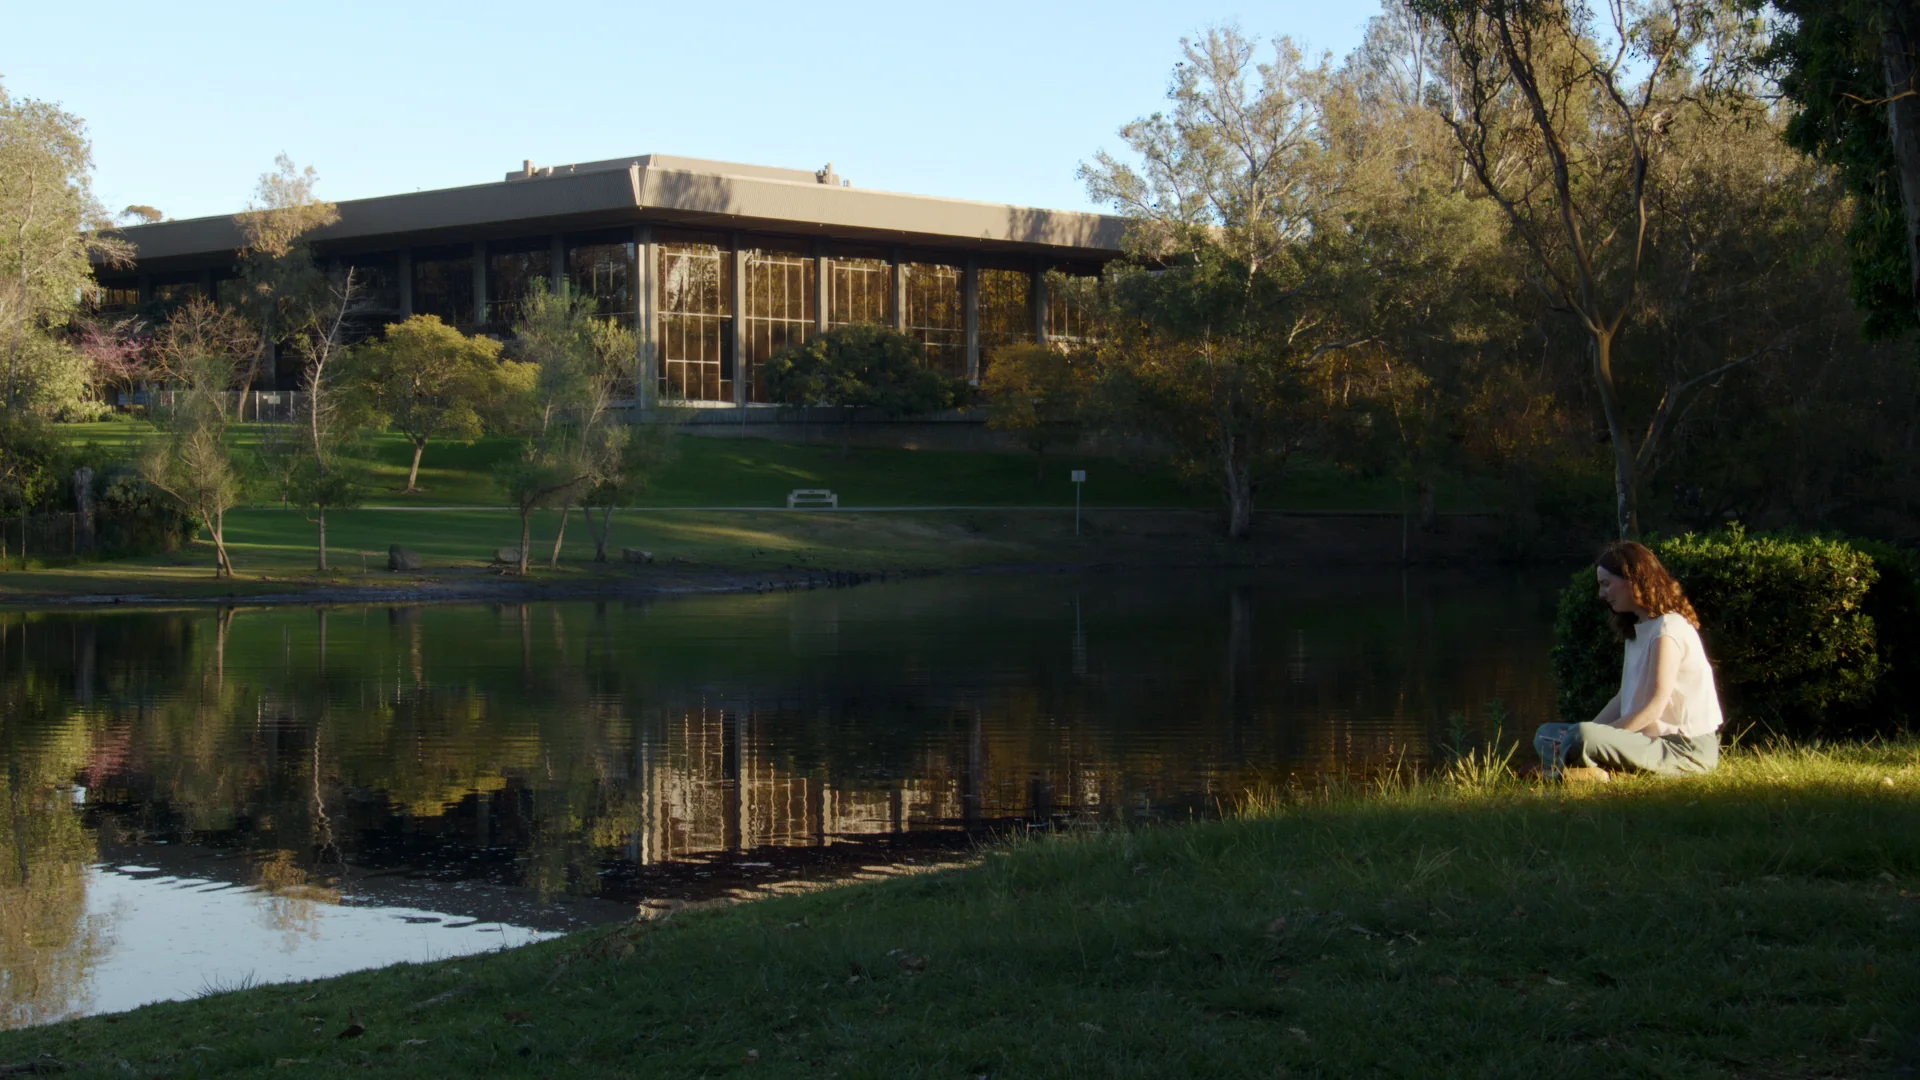
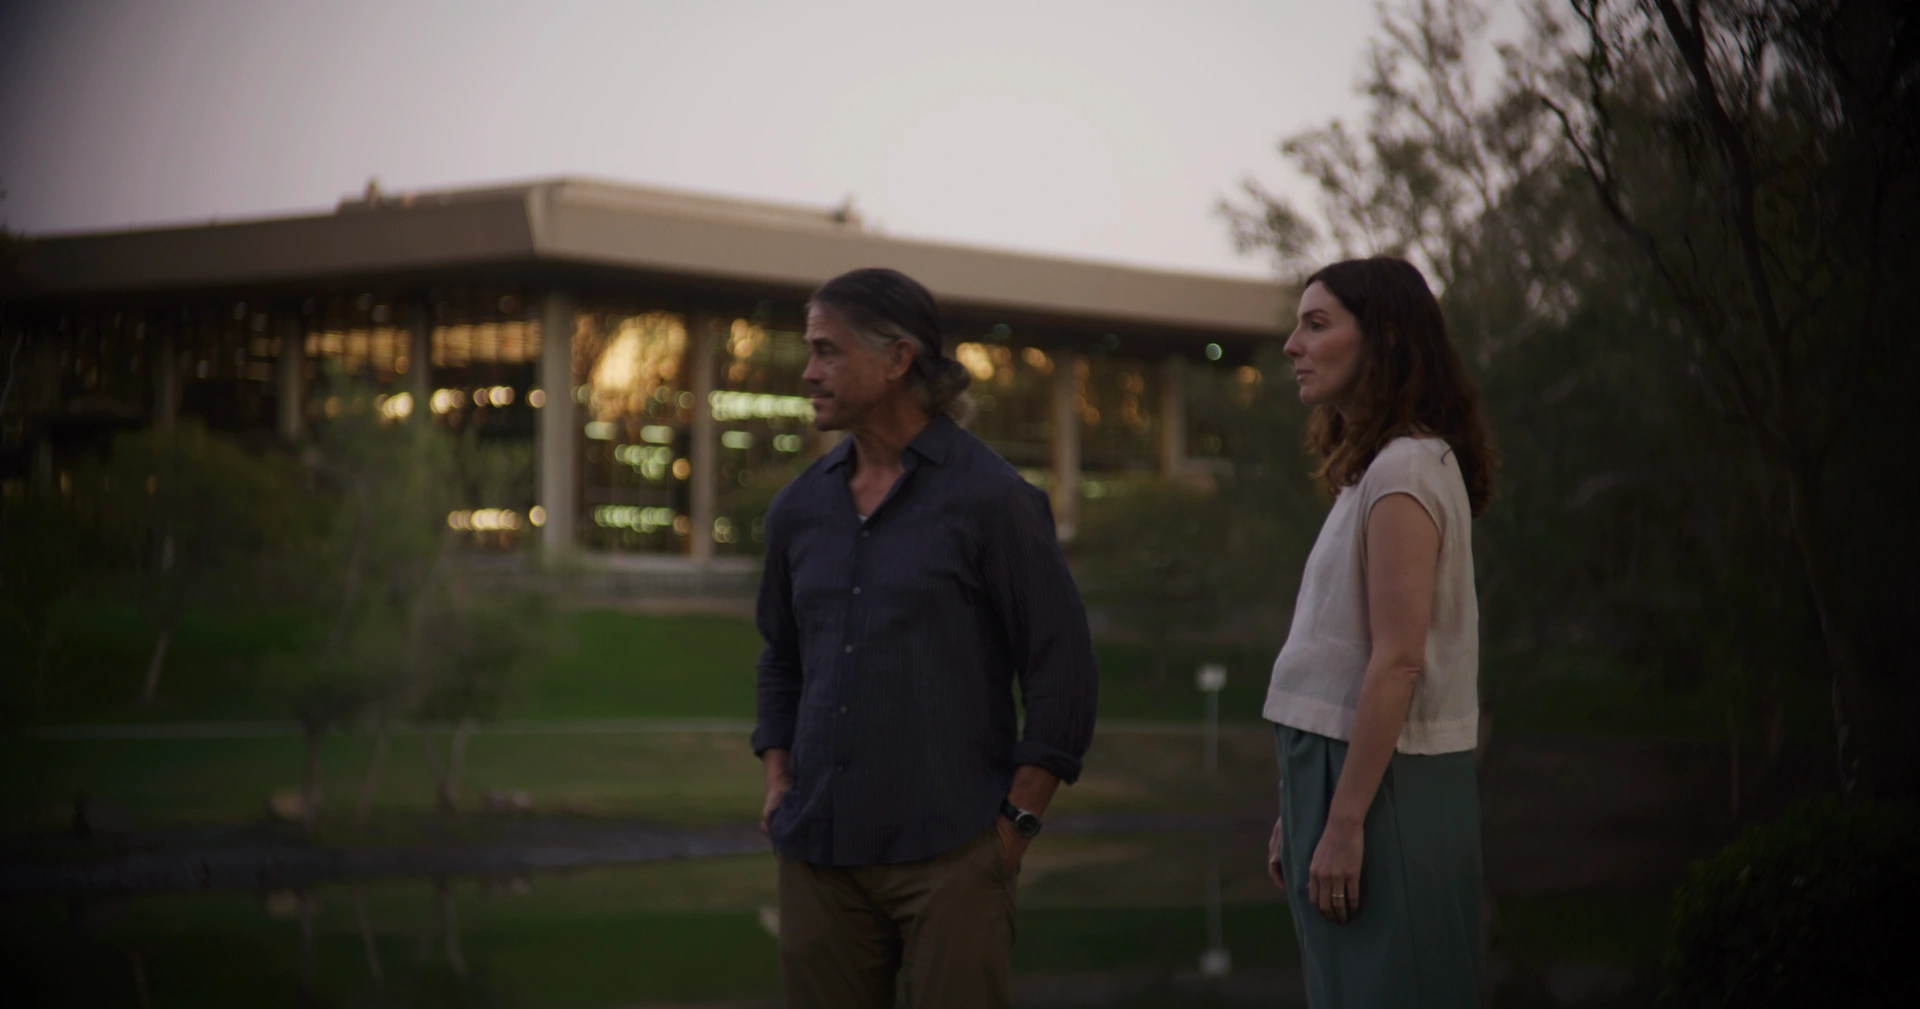
Full-quality hero stills: reel two-shot (lossless from ProRes) and Storm 4K frame; drop parallax zoom
Claude-Session: https://claude.ai/code/session_01JuEkN7AnyJEq6go7fCu62a

diff --git a/index.html b/index.html
@@ -9,7 +9,7 @@
 <link rel="preconnect" href="https://fonts.googleapis.com">
 <link rel="preconnect" href="https://fonts.gstatic.com" crossorigin>
 <link rel="stylesheet" href="https://fonts.googleapis.com/css2?family=Hanken+Grotesk:wght@300;400;500;600;700&family=IBM+Plex+Mono:wght@400;500&display=swap">
-<link rel="preload" as="image" href="img/hero-reel-1280.webp">
+<link rel="preload" as="image" href="img/hero-reel.webp">
 <style>
 :root {
   --bg: #000;
@@ -40,8 +40,8 @@ nav ul { display: flex; gap: 28px; list-style: none; margin: 0; padding: 0; }
 nav ul a { font: 500 13px/1 var(--sans); color: var(--muted); text-decoration: none; transition: color .2s; }
 nav ul a:hover, nav ul a:focus-visible { color: var(--fg); }
 .hero { position: relative; height: 100svh; min-height: 560px; overflow: hidden; display: grid; align-items: end; }
-.hero .still { position: absolute; inset: -6% 0 0; background: #000 url("img/hero-reel-1280.webp") 72% 50% / cover no-repeat; background-image: image-set(url("img/hero-reel-1280.webp") 1x, url("img/hero-reel.webp") 2x); transform: scale(1.08); will-change: transform; animation: settle 2.4s var(--ease) both; }
-@keyframes settle { from { transform: scale(1.16); filter: brightness(.4); } to { transform: scale(1.08); filter: brightness(1); } }
+.hero .still { position: absolute; inset: -6% 0 0; background: #000 url("img/hero-reel.webp") 50% 50% / cover no-repeat; transform: none; will-change: transform; animation: settle 2.4s var(--ease) both; }
+@keyframes settle { from { transform: scale(1.06); filter: brightness(.4); } to { transform: none; filter: brightness(1); } }
 .hero::after { content: ""; position: absolute; inset: 0; background: linear-gradient(90deg, rgba(0,0,0,.55) 0%, rgba(0,0,0,.1) 50%, rgba(0,0,0,0) 70%), linear-gradient(180deg, rgba(0,0,0,.55) 0%, rgba(0,0,0,0) 28%, rgba(0,0,0,.15) 55%, rgba(0,0,0,.92) 100%); }
 .hero .wrap { position: relative; z-index: 2; text-shadow: 0 1px 12px rgba(0,0,0,.35); width: 100%; padding-bottom: clamp(40px, 9vh, 96px); display: grid; gap: 22px; }
 .hero .label { color: #e8e8e4; }
@@ -65,7 +65,7 @@ section.block { padding-block: clamp(96px, 16vh, 180px); }
 .slate dd { margin: 6px 0 0; font: 500 16px/1.35 var(--sans); }
 .credit { margin: 22px 0 0; max-width: 62ch; color: var(--muted); font-size: 15px; }
 .feature { position: relative; height: 92svh; min-height: 520px; overflow: hidden; display: grid; align-items: end; }
-.feature .still { position: absolute; inset: 0; background: #000 url("img/hero-storm-1280.webp") 62% 40% / cover no-repeat; background-image: image-set(url("img/hero-storm-1280.webp") 1x, url("img/hero-storm.webp") 2x); transform: scale(1.06); transition: transform 1.6s var(--ease); }
+.feature .still { position: absolute; inset: 0; background: #000 url("img/hero-storm-1920.webp") 62% 40% / cover no-repeat; background-image: image-set(url("img/hero-storm-1920.webp") 1x, url("img/hero-storm.webp") 2x); transform: scale(1.06); transition: transform 1.6s var(--ease); }
 .feature.in .still { transform: scale(1); }
 .feature::after { content: ""; position: absolute; inset: 0; background: linear-gradient(90deg, rgba(0,0,0,.7) 0%, rgba(0,0,0,.15) 55%, rgba(0,0,0,0) 100%), linear-gradient(180deg, rgba(0,0,0,.6) 0%, rgba(0,0,0,0) 25%, rgba(0,0,0,0) 60%, rgba(0,0,0,.95) 100%); }
 .feature .wrap { position: relative; z-index: 2; width: 100%; padding-bottom: clamp(40px, 9vh, 96px); display: grid; gap: 18px; justify-items: start; }
@@ -148,7 +148,7 @@ section.block { padding-block: clamp(96px, 16vh, 180px); }
   .shot { padding-block: 48px 0; }
   .feature { height: 78svh; min-height: 460px; }
   .contact { padding-block: 64px calc(48px + env(safe-area-inset-bottom, 0px)); }
-  .hero .still { position: relative; inset: auto; width: 100%; height: auto; aspect-ratio: 1920 / 1008; background: #000 url("img/hero-reel-m.webp") center / cover no-repeat; transform: none; animation: none; flex: none; }
+  .hero .still { position: relative; inset: auto; width: 100%; height: auto; aspect-ratio: 1920 / 1009; background: #000 url("img/hero-reel.webp") center / cover no-repeat; transform: none; animation: none; flex: none; }
   .hero .still::after { content: ""; position: absolute; inset: 0; background: linear-gradient(180deg, rgba(0,0,0,0) 60%, rgba(0,0,0,.85) 100%); }
   .hero::after { display: none; }
   .hero .wrap { position: relative; margin-top: 28px; padding-bottom: 32px; text-shadow: none; }
@@ -279,7 +279,7 @@ const nav = document.getElementById('nav'), still = document.getElementById('sti
 function onScroll() {
   const y = scrollY;
   nav.classList.toggle('solid', y > innerHeight * .6);
-  if (!reduce && innerWidth > 760 && y < innerHeight * 1.2) still.style.transform = `translateY(${y * .25}px) scale(${1.08 + y * .00012})`;
+  if (!reduce && innerWidth > 760 && y < innerHeight * 1.2) still.style.transform = y > 0 ? `translateY(${y * .25}px)` : '';
 }
 addEventListener('scroll', onScroll, { passive: true }); onScroll();
 
